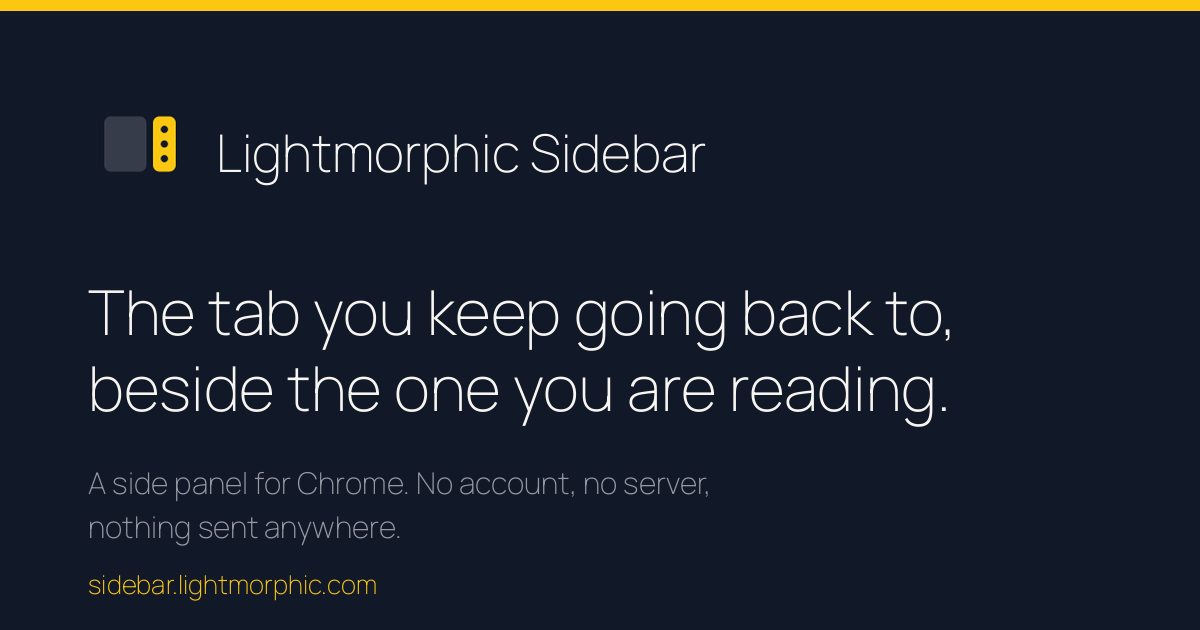
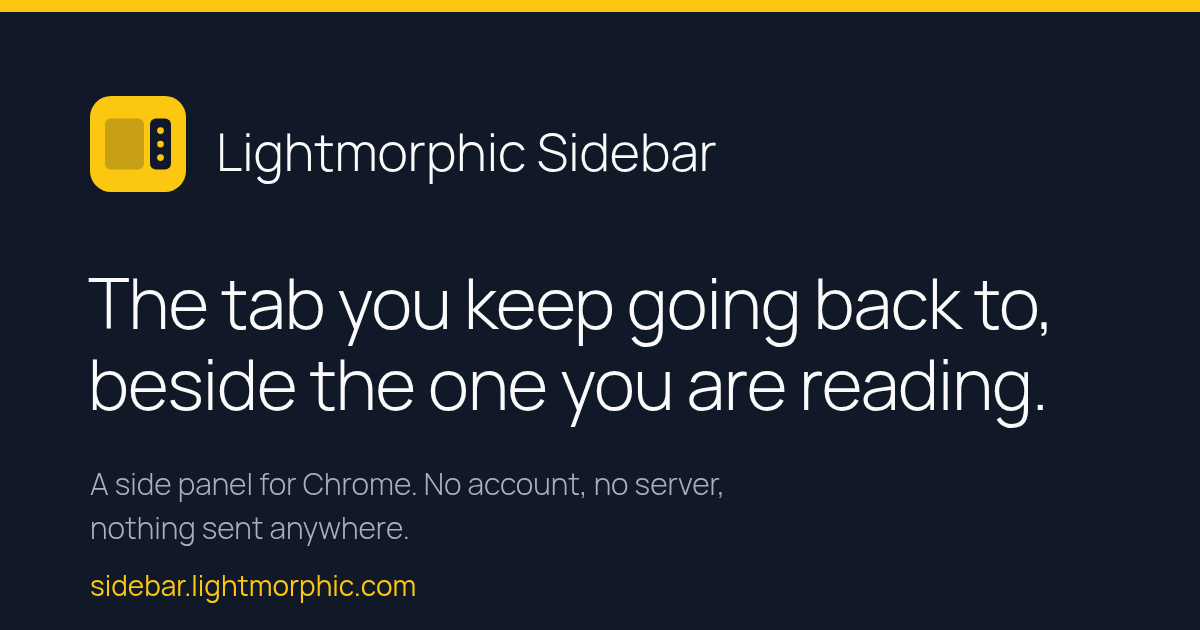
Site: the download button is the Chrome Web Store; drop the Built by Lightmorphic block; new share picture

diff --git a/site/index.html b/site/index.html
@@ -385,24 +385,6 @@
   }
   .faq-list dd { margin: 0.5rem 0 0; color: var(--quiet-ink); }
 
-  /* ---------- lightmorphic promo ---------- */
-  .promo { border-top: 1px solid var(--rule); }
-  .promo .col { padding-block: clamp(3rem, 6vw, 4.5rem); }
-
-  .promo-card {
-    display: grid;
-    grid-template-columns: auto 1fr auto;
-    align-items: center;
-    gap: clamp(1rem, 3vw, 2rem);
-    background: var(--paper-2);
-    border: 1px solid var(--rule);
-    border-radius: 1.25rem;
-    padding: clamp(1.25rem, 3vw, 2rem);
-  }
-  .promo-card h3 { margin: 0 0 0.375rem; font-size: 1.25rem; letter-spacing: -0.02em; }
-  .promo-card p { margin: 0; color: var(--dim); font-size: 0.9375rem; max-width: 44ch; }
-  .promo-mark { width: 54px; height: 54px; flex: 0 0 auto; }
-
   /* ---------- footer ---------- */
   footer { border-top: 1px solid var(--rule); font-size: 0.875rem; color: var(--dim); }
   .who { width: 100%; margin-bottom: 1.25rem; }
@@ -610,15 +592,18 @@
     .mast nav { gap: 0.75rem; }
     .chapter { grid-template-columns: 1fr; gap: 0.5rem; }
     .num { font-size: 2.25rem; }
-    .promo-card { grid-template-columns: auto 1fr; }
-    .promo-card .cta-side { grid-column: 1 / -1; text-align: center; }
     .demo-panel { margin-left: var(--gutter); margin-right: var(--gutter); max-width: none; }
+  }
+
+  @media (max-width: 480px) {
+    /* The store button names the store, which is longer than the old label,
+       so on a phone the masthead keeps the mark and drops the name. */
+    .mast b { display: none; }
+    .mast nav { gap: 0.5rem; }
   }
 
   @media (max-width: 420px) {
     .hero h1 { font-size: 2.35rem; }
-    .promo-card { grid-template-columns: 1fr; }
-    .promo-mark { width: 44px; height: 44px; }
   }
 
   @media (prefers-reduced-motion: reduce) {
@@ -805,7 +790,7 @@
       <a href="#how">How it works</a>
       <a href="#questions">Questions</a>
       <a href="#private">Privacy</a>
-      <a class="get" href="https://chromewebstore.google.com/search/Lightmorphic%20Sidebar">Get it</a>
+      <a class="get" href="https://chromewebstore.google.com/search/Lightmorphic%20Sidebar" rel="noopener">Chrome Web Store</a>
       <div id="all-apps"></div>
     </nav>
   </header>
@@ -818,7 +803,7 @@
         read everything else. There is a working one on this page, have a go at
         it.</p>
       <div class="actions">
-        <a class="cta-main" href="https://chromewebstore.google.com/search/Lightmorphic%20Sidebar">Get Lightmorphic Sidebar</a>
+        <a class="cta-main" href="https://chromewebstore.google.com/search/Lightmorphic%20Sidebar" rel="noopener">Get it on the Chrome Web Store</a>
         <a class="cta-side" href="#how">See what it does</a>
       </div>
       <p class="fine">Chrome, Edge, Brave, Vivaldi, Opera · no account · no server · nothing sent anywhere</p>
@@ -1095,24 +1080,6 @@ John</span></button>
     </dl>
   </section>
 
-  <section class="promo">
-    <div class="col">
-      <div class="promo-card">
-        <svg class="promo-mark" viewBox="0 0 54 54" role="img" aria-label="Lightmorphic">
-          <rect width="54" height="54" rx="13" fill="var(--navy)"/>
-          <path d="M15 38V16h5.5v17H31v5z" fill="var(--accent)"/>
-          <circle cx="37" cy="20" r="4.5" fill="var(--accent)"/>
-        </svg>
-        <div>
-          <h3><span translate="no">Built by Lightmorphic</span></h3>
-          <p>Lightmorphic Sidebar is one of a family of small, private tools: desktop apps,
-            browser extensions and websites, made without accounts, tracking or
-            anything phoning home. See the rest of them.</p>
-        </div>
-        <a class="cta-side" href="https://lightmorphic.com" target="_blank" rel="noopener">lightmorphic.com ↗</a>
-      </div>
-    </div>
-  </section>
 
   <footer>
     <div class="col">

diff --git a/docs/images/sources/share.html b/docs/images/sources/share.html
@@ -1,0 +1,25 @@
+<!doctype html>
+<html lang="en-GB"><head><meta charset="utf-8">
+<style>
+@font-face { font-family: "Manrope"; src: url("../../../chrome/fonts/Manrope.woff2") format("woff2"); font-weight: 200 800; }
+html, body { margin: 0; width: 1200px; height: 630px; overflow: hidden; }
+body { background: #111827; font-family: "Manrope", system-ui, sans-serif; color: #fafafa; position: relative; }
+.bar { position: absolute; left: 0; right: 0; top: 0; height: 12px; background: #fbc711; }
+.mark { position: absolute; left: 90px; top: 96px; width: 96px; height: 96px; }
+.name { position: absolute; left: 216px; top: 116px; font-size: 52px; font-weight: 300; }
+h1 { position: absolute; left: 88px; top: 262px; margin: 0; font-size: 70px; font-weight: 300; line-height: 1.15; letter-spacing: -1px; }
+.sub { position: absolute; left: 90px; top: 462px; font-size: 30px; font-weight: 300; color: #a9afbd; line-height: 1.45; width: 700px; }
+.url { position: absolute; left: 90px; top: 566px; font-size: 28px; color: #fbc711; }
+</style></head><body>
+<div class="bar"></div>
+<svg class="mark" viewBox="0 0 128 128" aria-hidden="true">
+  <rect width="128" height="128" rx="28" fill="#FBC711"/>
+  <rect x="20" y="30" width="52" height="68" rx="8" fill="#111827" opacity="0.22"/>
+  <rect x="80" y="30" width="28" height="68" rx="8" fill="#111827"/>
+  <circle cx="94" cy="46" r="4.5" fill="#FBC711"/><circle cx="94" cy="64" r="4.5" fill="#FBC711"/><circle cx="94" cy="82" r="4.5" fill="#FBC711"/>
+</svg>
+<div class="name">Lightmorphic Sidebar</div>
+<h1>The tab you keep going back to,<br>beside the one you are reading.</h1>
+<div class="sub">A side panel for Chrome. No account, no server, nothing sent anywhere.</div>
+<div class="url">sidebar.lightmorphic.com</div>
+</body></html>
